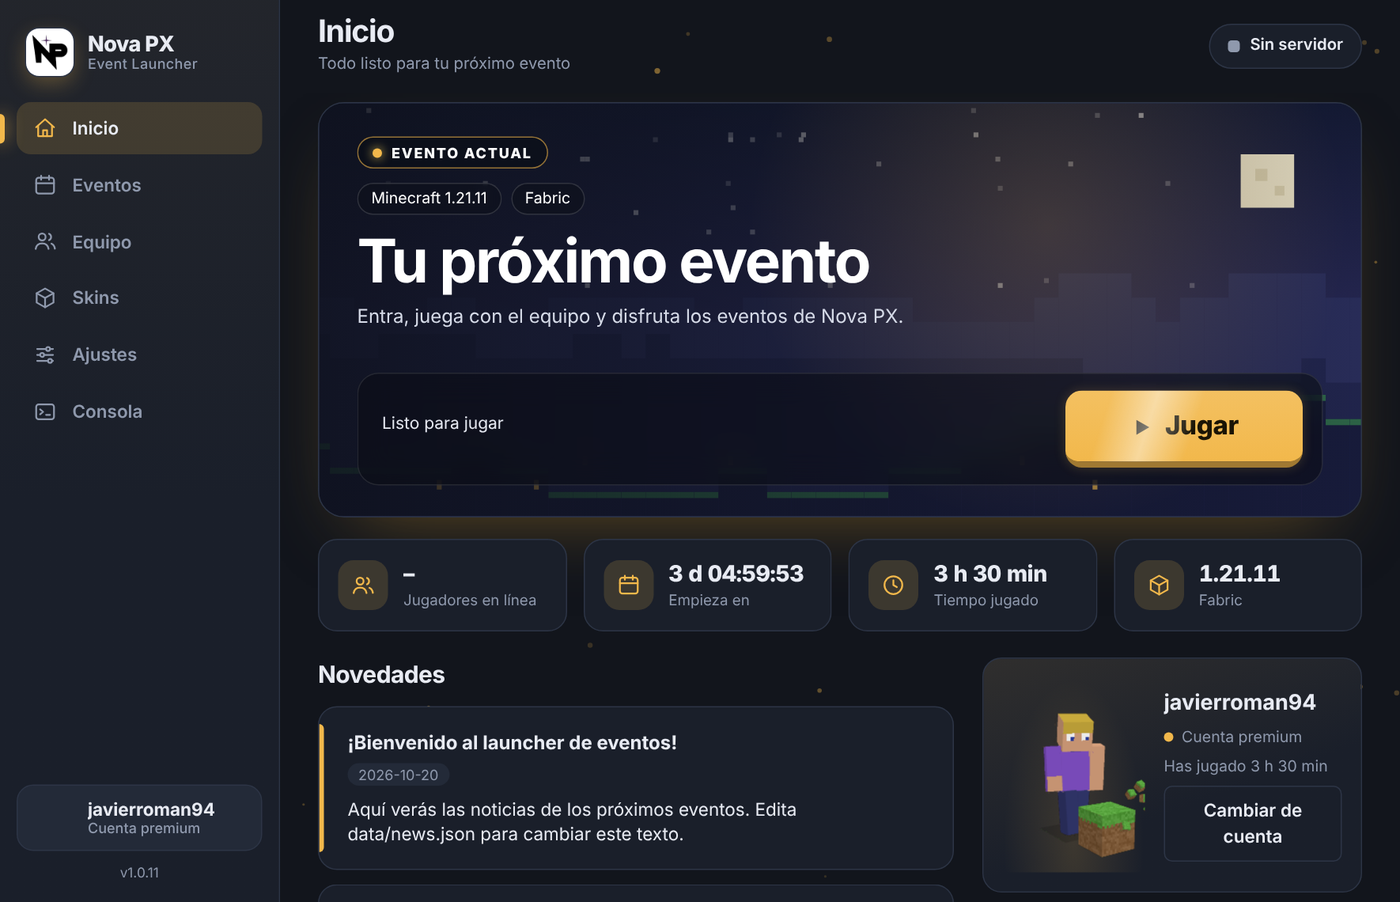
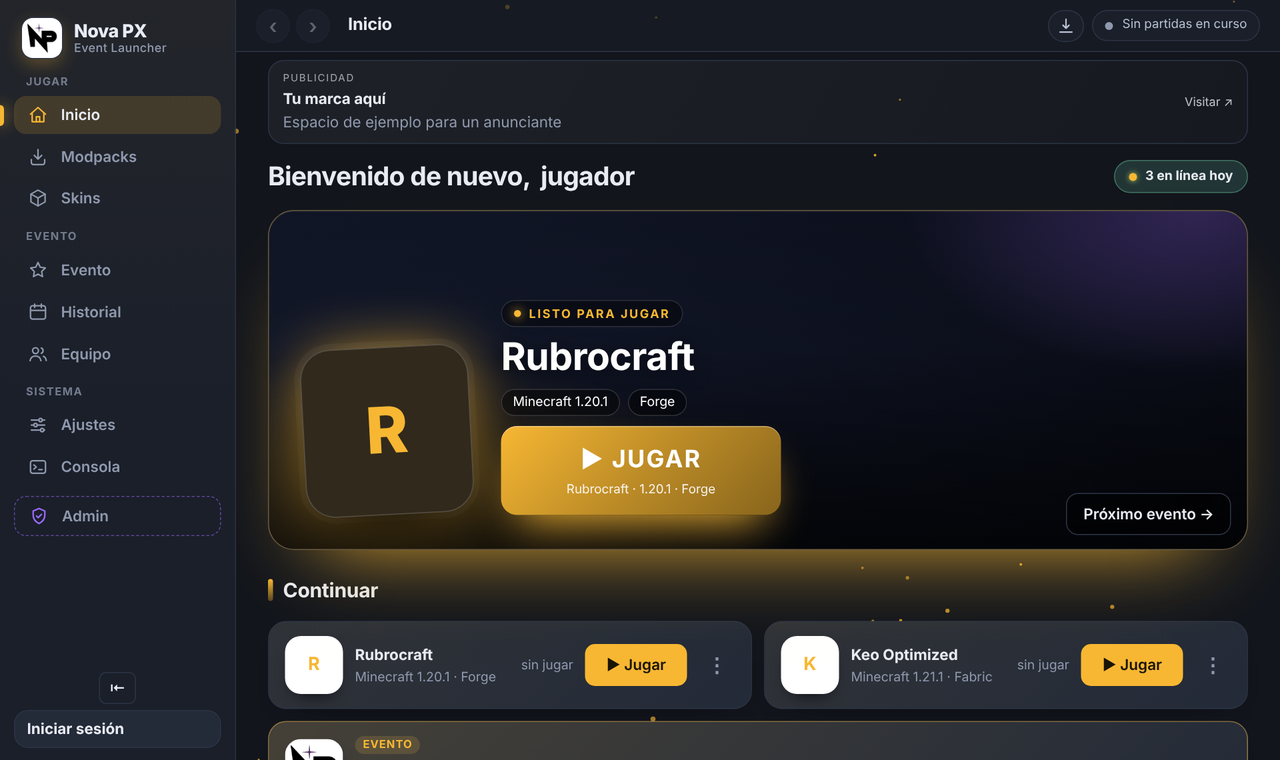
README renovado: portada, funciones por secciones, capturas nuevas y FAQ al día
Claude-Session: https://claude.ai/code/session_01QGVpwVmY8ZjmsGPpqpFdFu

diff --git a/README.md b/README.md
@@ -2,79 +2,104 @@
 
 <img src="docs/img/banner.png" alt="Nova PX Event Launcher" width="100%" />
 
-<br />
+# Nova PX Event Launcher
+
+**El launcher de Minecraft para los eventos de la comunidad Nova PX.**<br />
+Instálalo una vez y juega: eventos, modpacks, skins y amigos en un solo lugar.
 
 [![Última versión](https://img.shields.io/github/v/release/javierroman94/Nova-PX-Event-Launcher?style=for-the-badge&color=f2b84b&labelColor=0e1220&label=versi%C3%B3n)](https://github.com/javierroman94/Nova-PX-Event-Launcher/releases/latest)
 [![Descargas](https://img.shields.io/github/downloads/javierroman94/Nova-PX-Event-Launcher/total?style=for-the-badge&color=9d6bff&labelColor=0e1220&label=descargas)](https://github.com/javierroman94/Nova-PX-Event-Launcher/releases)
 [![Compilación](https://img.shields.io/github/actions/workflow/status/javierroman94/Nova-PX-Event-Launcher/release.yml?style=for-the-badge&labelColor=0e1220&label=build)](https://github.com/javierroman94/Nova-PX-Event-Launcher/actions)
+[![Licencia MIT](https://img.shields.io/badge/licencia-MIT-5fd38d?style=for-the-badge&labelColor=0e1220)](LICENSE)
 ![Electron](https://img.shields.io/badge/Electron-33-4cc9f0?style=for-the-badge&labelColor=0e1220&logo=electron&logoColor=white)
-![Minecraft Java](https://img.shields.io/badge/Minecraft-Java-5fd38d?style=for-the-badge&labelColor=0e1220)
 
-**[⬇ Descargar la última versión](https://github.com/javierroman94/Nova-PX-Event-Launcher/releases/latest)** · [📖 Guía completa](docs/GUIA.md) · [💬 Discord](https://discord.gg/VAfuFEQtjv)
+### [⬇ Descargar para Windows y Linux](https://github.com/javierroman94/Nova-PX-Event-Launcher/releases/latest)
+
+[📖 Guía completa](docs/GUIA.md) · [💬 Discord](https://discord.gg/VAfuFEQtjv) · [𝕏 @NovaPX_](https://x.com/NovaPX_) · [🧾 Historial de cambios](CHANGELOG.md)
+
+<br />
+
+<img src="docs/img/home.png" alt="Pantalla de inicio del launcher" width="92%" />
+<br /><sub>Capturas con datos de ejemplo.</sub>
 
 </div>
 
 ---
 
-## ✨ Qué es
+## ✨ Por qué Nova PX Launcher
 
-El launcher oficial de **Nova PX** para jugar sus eventos de Minecraft. El jugador lo instala **una sola vez**: después, las noticias, los eventos, el equipo y los mods se actualizan solos desde este repositorio, y el propio programa se actualiza cuando publicamos una versión nueva.
+El jugador lo instala **una sola vez**. Después, las noticias, los eventos, el equipo y los mods se actualizan solos desde este repositorio, y el propio programa se actualiza cuando publicamos una versión nueva. Sin instalar Java, sin descargar mods a mano.
 
-<div align="center">
-<img src="docs/img/home.png" alt="Pantalla de inicio del launcher" width="92%" />
-<br /><sub>Capturas con datos de ejemplo.</sub>
-</div>
+<table>
+<tr>
+<td width="33%" valign="top">
 
-## 🚀 Características
+### 🎮 Jugar
+- Sesión con **Microsoft o nick local**, y **varias cuentas** a un clic
+- Loader y versión del evento sin tocar nada (**Vanilla, Fabric, Forge**)
+- **Java automático** si falta
+- Una carpeta por evento, sin choques entre mods
+- **Estado del servidor** y jugadores en línea
 
-| | |
-|---|---|
-| 🔐 **Premium y no premium** | Inicio de sesión con Microsoft o con un nick local. La sesión se recuerda al cerrar el launcher. |
-| 🧩 **Vanilla, Fabric y Forge** | Instala el loader y la versión de Minecraft del evento sin que el jugador toque nada. |
-| 🛡 **Mods protegidos** | Los mods viajan cifrados (AES-256-GCM). Se pide una contraseña solo en la primera instalación. |
-| ☕ **Java automático** | Si el equipo no tiene el Java correcto, el launcher lo descarga e instala. |
-| 🎮 **Una carpeta por evento** | Cada evento vive en su propia instancia: los mods de uno no chocan con los de otro. |
-| 🧍 **Skins en 3D** | Visor 3D con animaciones, cambio de skin y de capa para cuentas premium. |
-| 🎨 **Temas y efectos** | Tema oscuro/claro, color principal, fondo propio y efectos que se pueden apagar. |
-| 💬 **Discord Rich Presence** | Muestra en Discord a qué evento estás jugando y cuánto tiempo llevas. |
-| 🔄 **Actualizaciones automáticas** | El contenido se lee de GitHub al abrir; el programa se actualiza solo con cada versión. |
-| 📦 **Biblioteca de modpacks** | Instala modpacks de Modrinth, cada uno en su propia carpeta, y gestiona su contenido: activa, quita o añade mods, shaders y texturas. |
-| 🛠 **Tus propios modpacks** | Crea instancias, ajusta RAM/Java por modpack, duplica, respalda mundos y actualiza mods. |
-| 🔁 **Importar y exportar** | Importa de Prism/MultiMC, CurseForge App, Modrinth y exporta un `.novapx` propio para compartir. |
-| 📊 **Estadísticas de uso (opcional)** | Contador gratis en Cloudflare para el administrador. Cada jugador puede apagarlo; no guarda IP. Ver [`docs/CLOUDFLARE.md`](docs/CLOUDFLARE.md). |
-| 🌌 **Nova Neón** | Tema futurista animado: vidrio, auroras, rejilla en movimiento, borde de luz y red de partículas. Se puede cambiar por Oscuro, Claro u OLED. |
-| 🎄 **Temporadas** | Decoración automática por fecha (Halloween, Navidad con nieve y luces, Año Nuevo con confeti) o elegida en Ajustes. |
-| 🌐 **Idiomas** | Paquetes de idioma (inglés incluido). La comunidad puede añadir más copiando un `.json`. |
-| 🧭 **Asistente de primer uso** | Al abrirlo por primera vez te guía: cuenta, RAM recomendada según tu equipo y listo. |
-| 📡 **Estado del servidor** | Cada modpack muestra si su servidor está activo y cuántos jugadores hay, leyendo su `servers.dat`. La IP no se muestra. |
-| 🛰 **Modo administrador** | Solo para el dueño y los jugadores autorizados: crea el modpack en el launcher y publícalo como evento con un botón (mods cifrados + manifest), edita equipo, noticias y eventos. |
-| 🧰 **Lista de mods** | Pestaña con nombre, icono y versión de cada mod instalado (datos de [Modrinth](https://modrinth.com)). |
-| 🩺 **Diagnóstico** | Consola con filtros, análisis de cierres inesperados y botón de **Reparar instalación**. |
-| 🔔 **Avisos de evento** | Notificación de escritorio una hora antes de que empiece un evento. |
-| 🪶 **Ligero** | Se minimiza a la bandeja y libera memoria mientras juegas. |
+</td>
+<td width="33%" valign="top">
+
+### 📦 Modpacks
+- Biblioteca con **Modrinth**, filtros y grupos
+- **Importa desde Prism, MultiMC, ATLauncher, CurseForge y Modrinth App** con un clic
+- Mods, shaders y texturas: activa, quita y **actualiza** (con aviso)
+- RAM, Java y cuenta **por modpack**; respaldo de mundos
+- Exporta un `.novapx` para compartir
+
+</td>
+<td width="33%" valign="top">
+
+### 🌐 Comunidad
+- **Skins en 3D**, cambio de skin y capa
+- **Amigos y chat**, estado en línea
+- Equipo, historial de eventos y noticias
+- **Discord Rich Presence**
+- Avisos de escritorio antes de cada evento
+
+</td>
+</tr>
+</table>
 
 ## 🖼 Capturas
 
 <table>
 <tr>
+<td width="50%"><img src="docs/img/library.png" alt="Biblioteca de modpacks" /><br /><sub><b>Biblioteca</b> · resumen, filtros y tarjetas grandes</sub></td>
+<td width="50%"><img src="docs/img/nuevo-perfil.png" alt="Nuevo perfil" /><br /><sub><b>Nuevo perfil</b> · crea, instala o importa desde otros launchers</sub></td>
+</tr>
+<tr>
+<td width="50%"><img src="docs/img/cuentas.png" alt="Varias cuentas" /><br /><sub><b>Cuentas</b> · cambia entre Microsoft y sin conexión</sub></td>
+<td width="50%"><img src="docs/img/publicidad.png" alt="Panel de publicidad" /><br /><sub><b>Admin</b> · patrocinadores, publicidad y estadísticas</sub></td>
+</tr>
+<tr>
 <td width="50%"><img src="docs/img/events.png" alt="Historial de eventos" /><br /><sub><b>Eventos</b> · historial con búsqueda y ficha</sub></td>
-<td width="50%"><img src="docs/img/team.png" alt="Equipo en 3D" /><br /><sub><b>Equipo</b> · skins en 3D con animaciones</sub></td>
-</tr>
-<tr>
-<td width="50%"><img src="docs/img/skins.png" alt="Skins y capas" /><br /><sub><b>Skins y capas</b> · vista previa antes de aplicar</sub></td>
-<td width="50%"><img src="docs/img/console.png" alt="Consola" /><br /><sub><b>Consola</b> · registro con filtros por nivel</sub></td>
-</tr>
-<tr>
-<td width="50%"><img src="docs/img/library.png" alt="Biblioteca de modpacks" /><br /><sub><b>Biblioteca</b> · tus modpacks instalados</sub></td>
 <td width="50%"><img src="docs/img/instance.png" alt="Contenido de un modpack" /><br /><sub><b>Modpack</b> · mods, shaders y texturas</sub></td>
 </tr>
 </table>
 
+## 🔧 Más funciones
+
+| | |
+|---|---|
+| 🛡 **Mods protegidos** | Los mods del evento viajan cifrados (AES-256-GCM); la contraseña se pide solo en la primera instalación. |
+| 🎨 **Temas y temporadas** | Oscuro, claro, OLED y **Nova Neón** (animado). Decoración automática de Halloween, Navidad y Año Nuevo. |
+| 🌍 **Idiomas** | Paquetes de idioma (inglés incluido); la comunidad puede añadir más con un `.json`. |
+| 🧭 **Asistente de primer uso** | Te guía: cuenta, RAM recomendada según tu equipo y listo. |
+| 🩺 **Diagnóstico** | Consola con filtros, análisis de cierres inesperados y **Reparar instalación**. |
+| 🪶 **Ligero** | Se minimiza a la bandeja y libera memoria mientras juegas. |
+| 📊 **Estadísticas opcionales** | Contador anónimo gratis en Cloudflare, sin IP; cada jugador puede apagarlo. Ver [`docs/CLOUDFLARE.md`](docs/CLOUDFLARE.md). |
+| 🛰 **Modo administrador** | Crea el modpack, pruébalo y publícalo como evento con un botón; edita equipo, noticias, eventos, patrocinadores y publicidad. |
+
 ## 📥 Instalación (jugadores)
 
-1. Entra a **[Releases](https://github.com/javierroman94/Nova-PX-Event-Launcher/releases/latest)** y descarga el instalador para tu sistema (`.exe` en Windows, `.AppImage` en Linux).
-2. Ábrelo e instala. Windows puede mostrar un aviso de "editor desconocido" porque el instalador aún no está firmado: pulsa **Más información → Ejecutar de todas formas**.
-3. Inicia sesión y pulsa **Jugar**. No necesitas instalar Java ni descargar mods a mano.
+1. Entra a **[Releases](https://github.com/javierroman94/Nova-PX-Event-Launcher/releases/latest)** y descarga el instalador (`.exe` en Windows, `.AppImage` en Linux).
+2. Ábrelo e instala. Windows puede avisar de «editor desconocido» porque el instalador aún no está firmado: pulsa **Más información → Ejecutar de todas formas**.
+3. Inicia sesión y pulsa **Jugar**.
 
 ## 🛠 Para el equipo (desarrollo)
 
@@ -90,11 +115,12 @@ El contenido se edita **sin tocar el programa**, en la carpeta [`data/`](data):
 
 | Archivo | Qué controla |
 |---|---|
-| `manifest.json` | Evento actual, versión de Minecraft, loader, servidor y mods |
+| `manifest.json` | Evento actual, versión de Minecraft, loader, servidor, mods y patrocinadores |
 | `events.json` | Historial de eventos (nombre, fecha, imagen, descripción) |
 | `team.json` | Miembros del equipo y sus cargos |
 | `news.json` | Noticias de la pantalla de inicio |
-| `launcher.json` | Marca, tema, avisos, mantenimiento y funciones (se edita desde el panel administrador) |
+| `ads.json` | Publicidad (anunciante, imagen, enlace, fechas) |
+| `launcher.json` | Marca, tema, avisos y funciones (se edita desde el panel administrador) |
 
 Para publicar una versión nueva del programa:
 
@@ -103,21 +129,23 @@ git tag v1.0.33
 git push origin v1.0.33
 ```
 
-GitHub Actions compila el instalador y lo publica en **Releases**; los launchers instalados lo descargan solos. Todo el detalle (mods cifrados, Forge, servidor, instancias, Discord) está en la **[Guía completa](docs/GUIA.md)**.
+GitHub Actions compila el instalador y lo publica en **Releases**; los launchers instalados lo descargan solos. Detalles (mods cifrados, Forge, servidor, instancias, Discord) en la **[Guía completa](docs/GUIA.md)**.
 
-## 🛰 Modo administrador
+### 🛰 Modo administrador
 
-Las funciones de administración no aparecen para los jugadores normales. Se activan en **Ajustes → Modo administrador** con un token de GitHub de acceso limitado (solo este repositorio, permiso *Contents: lectura y escritura*) y una cuenta premium autorizada. El flujo es: crear el modpack en el launcher → probarlo → **publicarlo como evento**. Detalles y recomendaciones de seguridad en la [Guía](docs/GUIA.md); sobre el inicio de sesión con Microsoft y el registro de una app propia, ver [`docs/MICROSOFT.md`](docs/MICROSOFT.md); el contador de usuarios opcional está en [`docs/CLOUDFLARE.md`](docs/CLOUDFLARE.md).
+No aparece para los jugadores normales. Se activa en **Ajustes → Modo administrador** con un token de GitHub de acceso limitado y una cuenta premium autorizada. Los colaboradores de otra cuenta usan un token *classic* con permiso `public_repo` (los fine-grained no pueden apuntar a repositorios de otra persona). Más detalle en la [Guía](docs/GUIA.md); Microsoft en [`docs/MICROSOFT.md`](docs/MICROSOFT.md).
 
 ## ❓ Preguntas frecuentes
 
-**¿Windows dice «editor desconocido»?** El instalador aún no está firmado digitalmente. Pulsa *Más información → Ejecutar de todas formas*.
+**¿Windows dice «editor desconocido»?** El instalador aún no está firmado. Pulsa *Más información → Ejecutar de todas formas*.
 
 **¿Necesito instalar Java?** No, el launcher descarga el que cada versión necesita.
 
-**¿Puedo usar mis modpacks de otros launchers?** Sí: *Importar archivo* acepta `.mrpack`, `.novapx` y zips de Prism/MultiMC; *Importar carpeta* acepta instancias de Prism y de la app de CurseForge.
+**¿Puedo usar mis modpacks de otros launchers?** Sí: *Nuevo perfil → Importar desde otros launchers* busca tus instancias de Prism, MultiMC, ATLauncher, CurseForge App y Modrinth App y las copia (las originales no se tocan). También acepta `.mrpack`, `.novapx` y zips.
 
-**¿Qué datos se envían?** Solo un contador anónimo opcional (sin IP ni nick) que puedes apagar en Ajustes.
+**¿Puedo tener varias cuentas?** Sí, de Microsoft y sin conexión, y cada modpack puede recordar con cuál se juega.
+
+**¿Qué datos se envían?** Solo un contador anónimo opcional que puedes apagar en Ajustes. Ver [PRIVACY.md](PRIVACY.md).
 
 ## 🧱 Estructura
 
@@ -125,25 +153,22 @@ Las funciones de administración no aparecen para los jugadores normales. Se act
 main.js · preload.js      Proceso principal de Electron
 renderer/                 Interfaz (HTML, CSS, JS, visor 3D en WebGL)
 lib/                      Loaders, cifrado, Java, skins, Discord, instancias, importadores, admin, GitHub
-worker/                   Contador de usuarios opcional (Cloudflare Worker)
+worker/                   Contador y amigos (Cloudflare Worker)
 data/                     Contenido editable (se lee desde GitHub)
 tools/                    Utilidades (generar mods cifrados)
 test/                     Pruebas automáticas
-docs/                     Guía, guía de Cloudflare y capturas
-CHANGELOG.md              Historial de versiones
+docs/                     Guía, Cloudflare, Microsoft y capturas
 ```
 
-## 👥 Equipo
+## 👥 Equipo y comunidad
 
-Hecho por el equipo de **Nova PX** · [Historial de cambios](CHANGELOG.md) · [Cómo colaborar](CONTRIBUTING.md) · [Discord](https://discord.gg/VAfuFEQtjv) · [X](https://x.com/NovaPX_)
+Hecho por el equipo de **Nova PX** · [Cómo colaborar](CONTRIBUTING.md) · [Discord](https://discord.gg/VAfuFEQtjv) · [X](https://x.com/NovaPX_)
+
+## 📄 Licencia
+
+El código es de código abierto bajo la licencia [MIT](LICENSE). El nombre «Nova PX», su logo y las imágenes de los eventos son de sus autores y no están incluidos en esa licencia. Política de firma: [CODE_SIGNING_POLICY.md](CODE_SIGNING_POLICY.md) · Privacidad: [PRIVACY.md](PRIVACY.md).
 
 <sub>Nova PX Event Launcher no está afiliado a Mojang Studios ni a Microsoft. Minecraft es una marca de Mojang Studios.</sub>
-
-## Licencia
-
-El código de este launcher es de código abierto bajo la licencia [MIT](LICENSE). El nombre «Nova PX», su logo y las imágenes de los eventos son de sus autores y no están incluidos en esa licencia. Minecraft es una marca de Mojang AB; este proyecto no está afiliado a Mojang ni a Microsoft.
-
-Política de firma de código: [CODE_SIGNING_POLICY.md](CODE_SIGNING_POLICY.md). Política de privacidad: [PRIVACY.md](PRIVACY.md).
 
 ## Code signing
 
